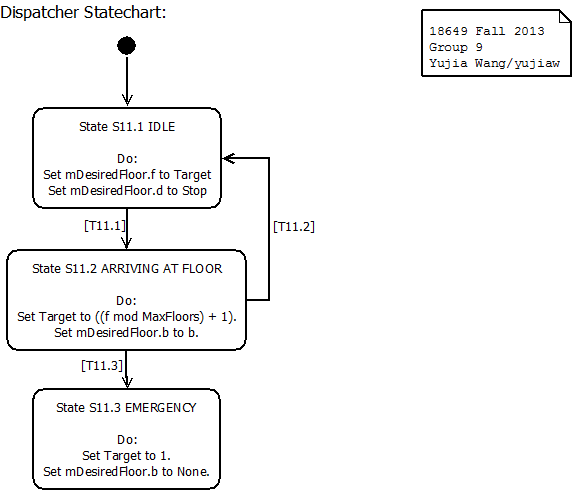
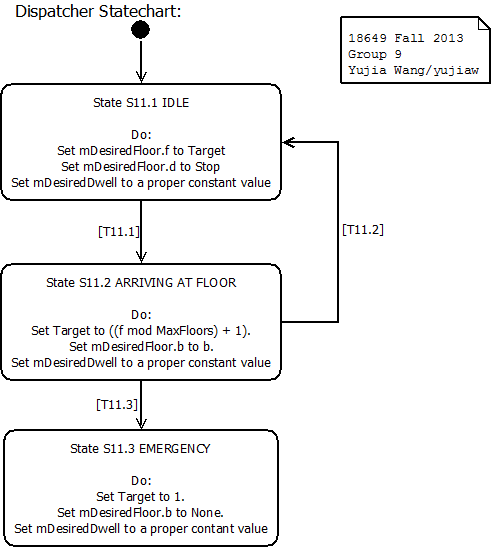
DriveControl statechart update

Changed region(s): [[0.0, 0.0, 0.7927, 1.0], [0.6707, 0.0, 1.0, 0.1829]]

diff --git a/reqs/requirements2.html b/reqs/requirements2.html
@@ -1314,8 +1314,7 @@
     <table border="1" cellpadding="2" cellspacing="2">
       <tbody>
         <tr>
-          <td valign="top">Transition<br>
-            #<br>
+          <td valign="top">Transition #<br>
           </td>
           <td valign="top">Guard<br>
           </td>
@@ -1389,8 +1388,7 @@
         </tr>
       </tbody>
     </table>
-    <br>
-    <h3>Requirements-to-Statecharts Traceability</h3>
+    <h3>Requirements-to-Statecharts Traceability </h3>
     <table border="1" cellpadding="2" cellspacing="2">
       <tbody>
         <tr>
@@ -2070,6 +2068,7 @@
               display: inline !important; float: none;">mAtFloor[mDesiredFloor
 
 
+
             </span><span style="color: rgb(0, 0, 0); font-family: Times;
               font-size: medium; font-style: normal; font-variant:
               normal; font-weight: normal; letter-spacing: normal;
@@ -2201,13 +2200,10 @@
     </p>
     <h3>TIME-TRIGGERED STATE CHART:</h3>
     <img alt="" src="HallButtonControl_state_chart_group9_priyam.png"
-<<<<<<< HEAD
-      height="443" width="762">
-=======
-      width="762" height="443"><br>
+      <<<<<<<="" head="" height="443" width="762">
     <br>
-    <table width="777" height="80" border="1" cellpadding="2"
-      cellspacing="2">
+    <table border="1" cellpadding="2" cellspacing="2" height="80"
+      width="777">
       <tbody>
         <tr>
           <td valign="top">Transition #<br>
@@ -2272,8 +2268,6 @@
         </tr>
       </tbody>
     </table>
-    <br>
->>>>>>> aefc13b5ab214677cb3d0a26268e4d6538eec8d6
     <p> </p>
     <br>
     <h2><a name="carbuttoncontrol"></a> 9. CarButtonControl[f, b] </h2>
@@ -2365,6 +2359,7 @@
               text-transform: none; white-space: normal; widows: auto;
               word-spacing: 0px; -webkit-text-stroke-width: 0px;
               display: inline !important; float: none;"></span>CurrentFloor
+
 
 
 
@@ -2930,16 +2925,15 @@
     to None.<br>
     11.8 &nbsp; If two mAtFloor[f, b] values are True with the same
     value f, then mDesiredFloor.b shall be set to Both.<br>
-    11.9 &nbsp;&nbsp; mDesiredDwell shall always be set to a constant
-    appropriate value for door open dwell.<br>
+    11.9&nbsp;&nbsp;&nbsp; mDesiredDwell shall always be set to a
+    constant appropriate value for door open dwell.<br>
     <h3>TIME-TRIGGERED STATECHART:</h3>
     <img alt="" src="statechart-Dispatcher_group9_yujiaw.png"
-      height="492" width="574">
+      height="548" width="492"><br>
     <table border="1" cellpadding="2" cellspacing="2">
       <tbody>
         <tr>
-          <td valign="top">Transition<br>
-            #<br>
+          <td valign="top">Transition #<br>
           </td>
           <td valign="top">Guard<br>
           </td>
